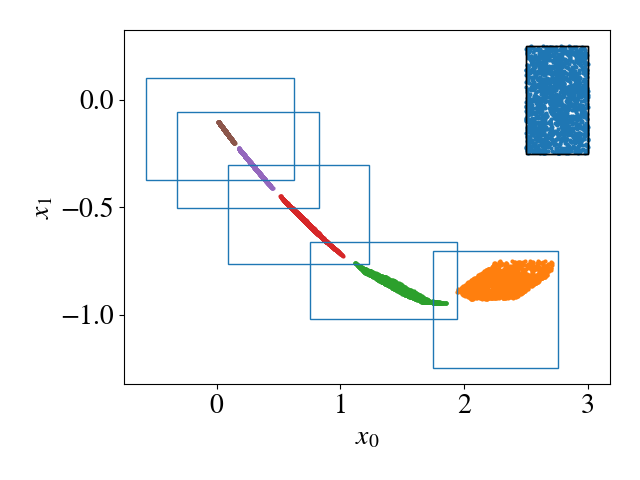
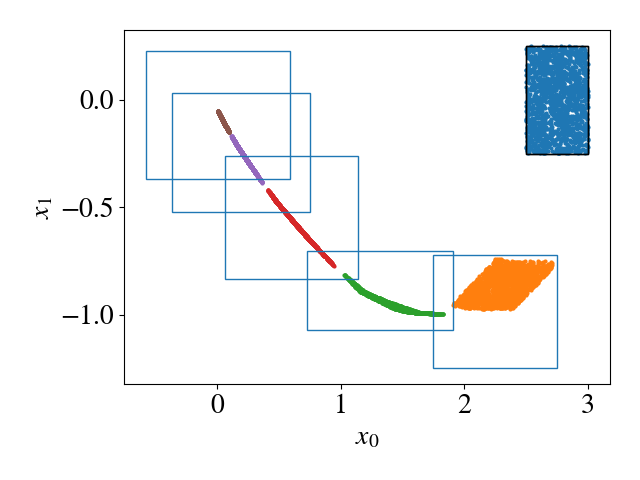
Learning with certifiability constraints

Changed region(s): [[0.2188, 0.0938, 0.875, 0.7812], [0.3125, 0.8125, 0.375, 0.875]]

diff --git a/nfl_robustness_training/src/train.py b/nfl_robustness_training/src/train.py
@@ -161,7 +161,7 @@ def Train_Regressor(model, cl_system, t, loader, eps_scheduler, norm, train, opt
             # robust_ce = CrossEntropyLoss()(-lb_padded, fake_labels)
         
         alpha = 0.03
-        beta = 0.05
+        beta = 0.01
         if batch_method == "robust":
             loss = regular_loss + alpha*robust_loss
         elif batch_method == "robust-constraint":
@@ -269,8 +269,9 @@ def main(args):
 
     ## Step 1: Initial original model as usual, see model details in models/example_feedforward.py and models/example_resnet.py
     if args.system == 'double_integrator':
-        neurons_per_layer = [10, 5]
-        controller_ori = cl_systems.Controllers["di_3layer"](neurons_per_layer)
+        controller_name = "di_4layer"
+        neurons_per_layer = [15, 10, 5]
+        controller_ori = cl_systems.Controllers[controller_name](neurons_per_layer)
         ol_dyn = dynamics.DoubleIntegrator()
         ol_dyn.At_torch = ol_dyn.At_torch.to(args.device)
         ol_dyn.bt_torch = ol_dyn.bt_torch.to(args.device)
@@ -330,7 +331,7 @@ def main(args):
 
         # import pdb; pdb.set_trace()
         path = os.getcwd() + '/nfl_robustness_training/src/controller_models/'
-        model_file = path + args.system + '/' + args.training_method + '_' + args.data + '.pth'
+        model_file = path + args.system + '/' + controller_name + '/' + args.training_method + '_' + args.data + '.pth'
         torch.save({'state_dict': cl_dyn.controller.state_dict(), 'epoch': t}, model_file)
 
     # import pdb; pdb.set_trace()

diff --git a/nfl_robustness_training/src/utils/nn.py b/nfl_robustness_training/src/utils/nn.py
@@ -12,10 +12,10 @@ PATH = os.getcwd()
 
 def load_controller(system, controller_name = 'default'):
     if system == 'DoubleIntegrator':
-        neurons_per_layer = [10, 5]
-        controller = cl_systems.Controllers["di_3layer"](neurons_per_layer)
+        neurons_per_layer = [15, 10, 5]
+        controller = cl_systems.Controllers["di_4layer"](neurons_per_layer)
 
-        controller_path = PATH + '/nfl_robustness_training/src/controller_models/double_integrator/' + controller_name + '.pth'
+        controller_path = PATH + '/nfl_robustness_training/src/controller_models/double_integrator/di_4layer/' + controller_name + '.pth'
         state_dict = torch.load(controller_path)['state_dict']
         controller.load_state_dict(state_dict)
     
@@ -31,7 +31,9 @@ def controller2sequential(controller):
         nn.ReLU(),
         controller.fc2,
         nn.ReLU(),
-        controller.fc3
+        controller.fc3,
+        nn.ReLU(),
+        controller.fc4
     )
     return model
 

diff --git a/nfl_robustness_training/src/cl_systems/double_integrator.py b/nfl_robustness_training/src/cl_systems/double_integrator.py
@@ -32,7 +32,7 @@ class di_3layer_controller(nn.Module):
 
 class di_4layer_controller(nn.Module):
     def __init__(self, neurons_per_layer):
-        super(di_3layer_controller, self).__init__()
+        super(di_4layer_controller, self).__init__()
         self.fc1 = nn.Linear(2, neurons_per_layer[0])
         self.fc2 = nn.Linear(neurons_per_layer[0], neurons_per_layer[1])
         self.fc3 = nn.Linear(neurons_per_layer[1], neurons_per_layer[2])
@@ -43,5 +43,5 @@ class di_4layer_controller(nn.Module):
         ut = F.relu(self.fc1(xt))
         ut = F.relu(self.fc2(ut))
         ut = F.relu(self.fc3(ut))
-        ut = self.fc3(ut)
+        ut = self.fc4(ut)
         return ut

diff --git a/nfl_robustness_training/src/utils/data_generation.py b/nfl_robustness_training/src/utils/data_generation.py
@@ -1,0 +1,4 @@
+import numpy as np
+
+def generate_new_data(dyn, xs) -> np.ndarray:
+    import pdb; pdb.set_trace()
